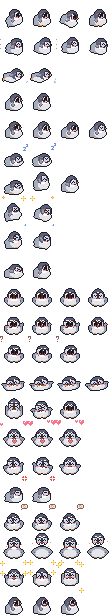
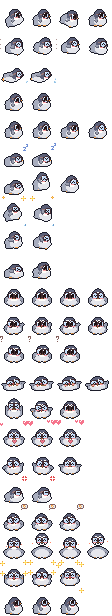
fix(art): kinder penguin a little wider to stay plump without the back fuzz
Claude-Session: https://claude.ai/code/session_01QTKFeeLBUNBZhj6R6jJCZF

diff --git a/tools/draw_penguin.py b/tools/draw_penguin.py
@@ -54,7 +54,7 @@ SHRIMP, SHRIMP_DARK = (255, 140, 110), (222, 96, 80)
 #               chub: 동글 공 몸 (가로, 세로) 배율 — 공통 torso(아기 길쭉)를 쓰지 않고 모든 단계 포동포동 (머리 큰 아기는 몸을 더 넓게)
 PG_STAGE = {
     0: dict(chick=True, fluff=3, fuzz=True, flip=0.78, tie=False, chub=(1.3, 1.0)),
-    1: dict(chick=True, fluff=1, fuzz=False, flip=0.86, tie=False, chub=(1.2, 1.02)),  # 등 솜털 세모는 아기만 (사용자: 등이 뾰족뾰족)
+    1: dict(chick=True, fluff=1, fuzz=False, flip=0.86, tie=False, chub=(1.25, 1.02)),  # 등 솜털 세모는 아기만 (사용자: 등이 뾰족뾰족)
     2: dict(chick=False, fluff=1, fuzz=False, flip=0.94, tie=False, chub=(1.17, 0.97)),
     3: dict(chick=False, fluff=0, fuzz=False, flip=1.0, tie=False, chub=(1.0, 1.0)),
     4: dict(chick=False, fluff=0, fuzz=False, flip=1.04, tie=True, chub=(0.98, 0.97)),
